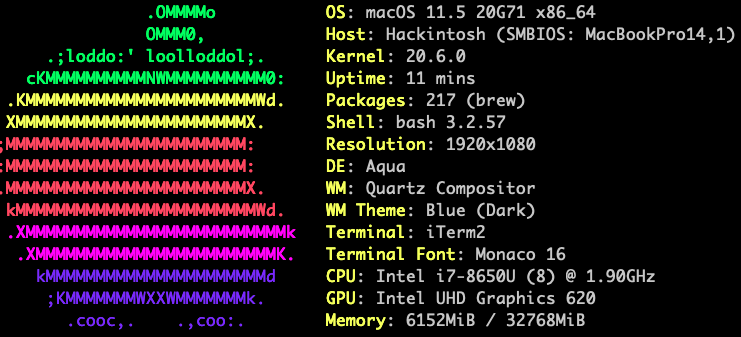
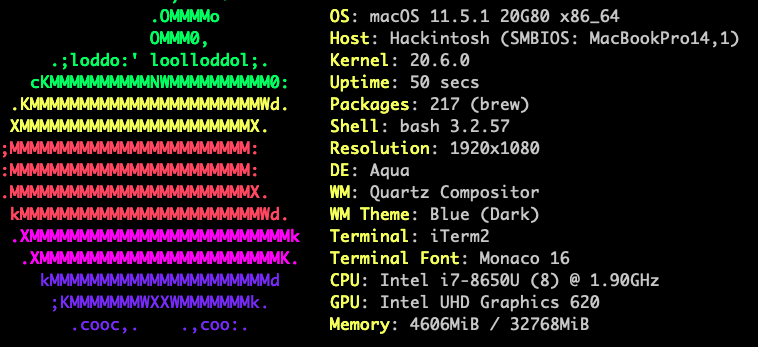
macOS 11.5.1 (20G80)

Changed region(s): [[0.4345, 0.0, 0.9933, 0.9792], [0.0, 0.0, 0.4035, 0.9792]]

diff --git a/README.md b/README.md
@@ -14,7 +14,7 @@ Working (compared to other setup I've found):
 
 Tested with:
 * T480 i7-8650U FHD, 32GB RAM, NVME, nvidia MX150 deactivated in DSDT/SSDT
-* macOS 11.5 (20G71)
+* macOS 11.5.1 (20G80)
 * Wireless DW1560, NGFF Broadcom BCM4352 802.11ac with PCID [14e4:43b1]
 * Wireless DW1820a : use config.DW1820a.plist
 * CPU i7-8650U : use https://github.com/stevezhengshiqi/one-key-cpufriend for correct power-state/energy saving
